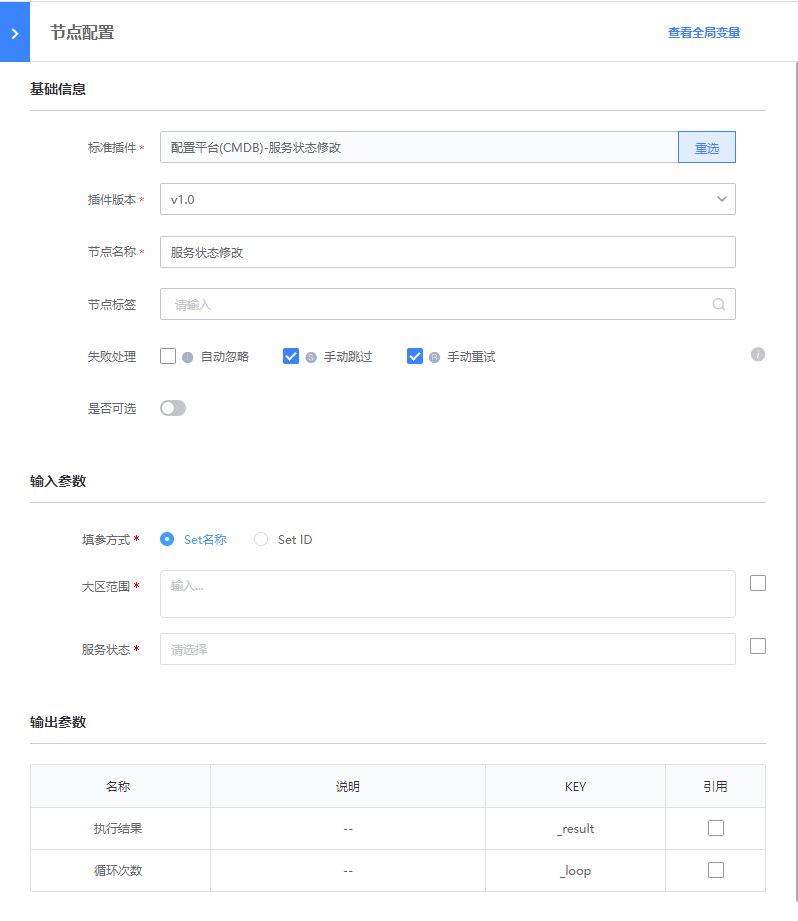
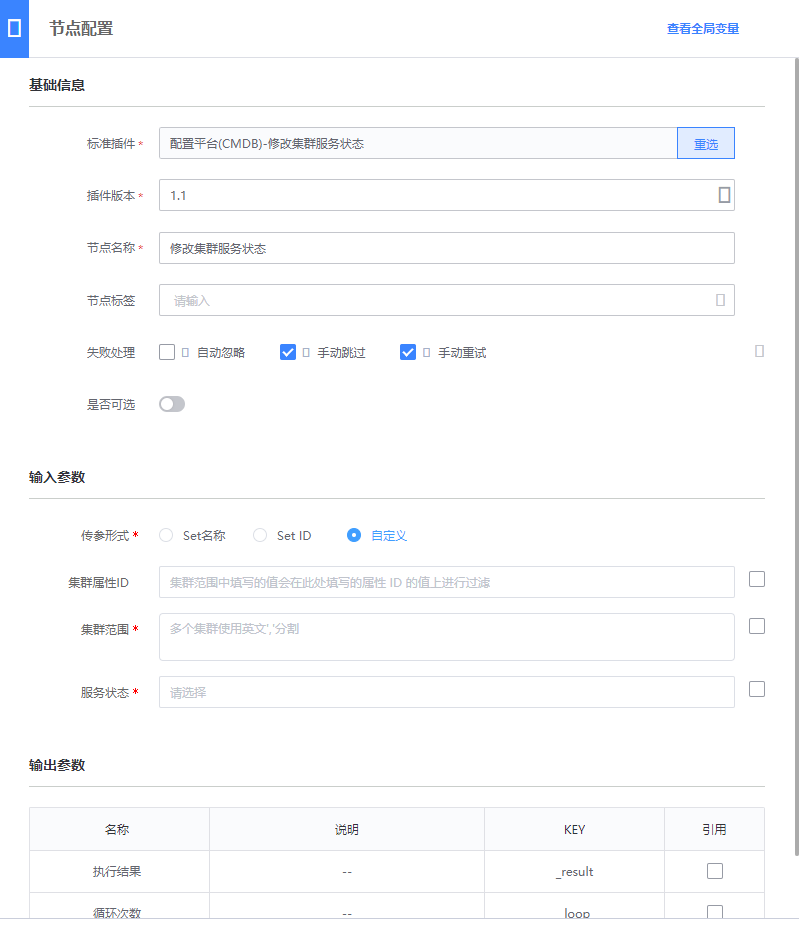
improve:CMDB-服务状态修改支持根据自定义属性过滤集群

diff --git a/pipeline_plugins/components/static/components/atoms/cc/update_set_service_status/v1_1.js b/pipeline_plugins/components/static/components/atoms/cc/update_set_service_status/v1_1.js
@@ -45,7 +45,7 @@
             type: "input",
             attrs: {
                 name: gettext("集群属性ID"),
-                placeholder: gettext("用英文','分割，集群范围中填写的值会在此处填写的属性 ID 的值上进行过滤"),
+                placeholder: gettext("集群范围中填写的值会在此处填写的属性 ID 的值上进行过滤"),
                 hookable: true,
                 validation: [
                     {

diff --git a/static/components/atoms/cc/update_set_service_status/v1_1.js b/static/components/atoms/cc/update_set_service_status/v1_1.js
@@ -45,7 +45,7 @@
             type: "input",
             attrs: {
                 name: gettext("集群属性ID"),
-                placeholder: gettext("用英文','分割，集群范围中填写的值会在此处填写的属性 ID 的值上进行过滤"),
+                placeholder: gettext("集群范围中填写的值会在此处填写的属性 ID 的值上进行过滤"),
                 hookable: true,
                 validation: [
                     {

diff --git a/pipeline_plugins/components/collections/sites/open/docs/cc/update_set_service_status/v1_1.md b/pipeline_plugins/components/collections/sites/open/docs/cc/update_set_service_status/v1_1.md
@@ -12,11 +12,13 @@
 
 * `set_select_method` 传参形式
 
-* `大区范围` 大区范围 多个参数用英文","分隔
+* `set_attr_id` 集群属性ID，集群范围中填写的值会在此处填写的属性 ID 的值上进行过滤
+
+* `set_list` 集群范围 多个参数用英文","分隔
     * `name`: Set名称
     * `id`: Set ID
 
-* `服务状态` 实时获取的服务状态
+* `set_status` 实时获取的服务状态
 
 ## 输出参数说明
 
